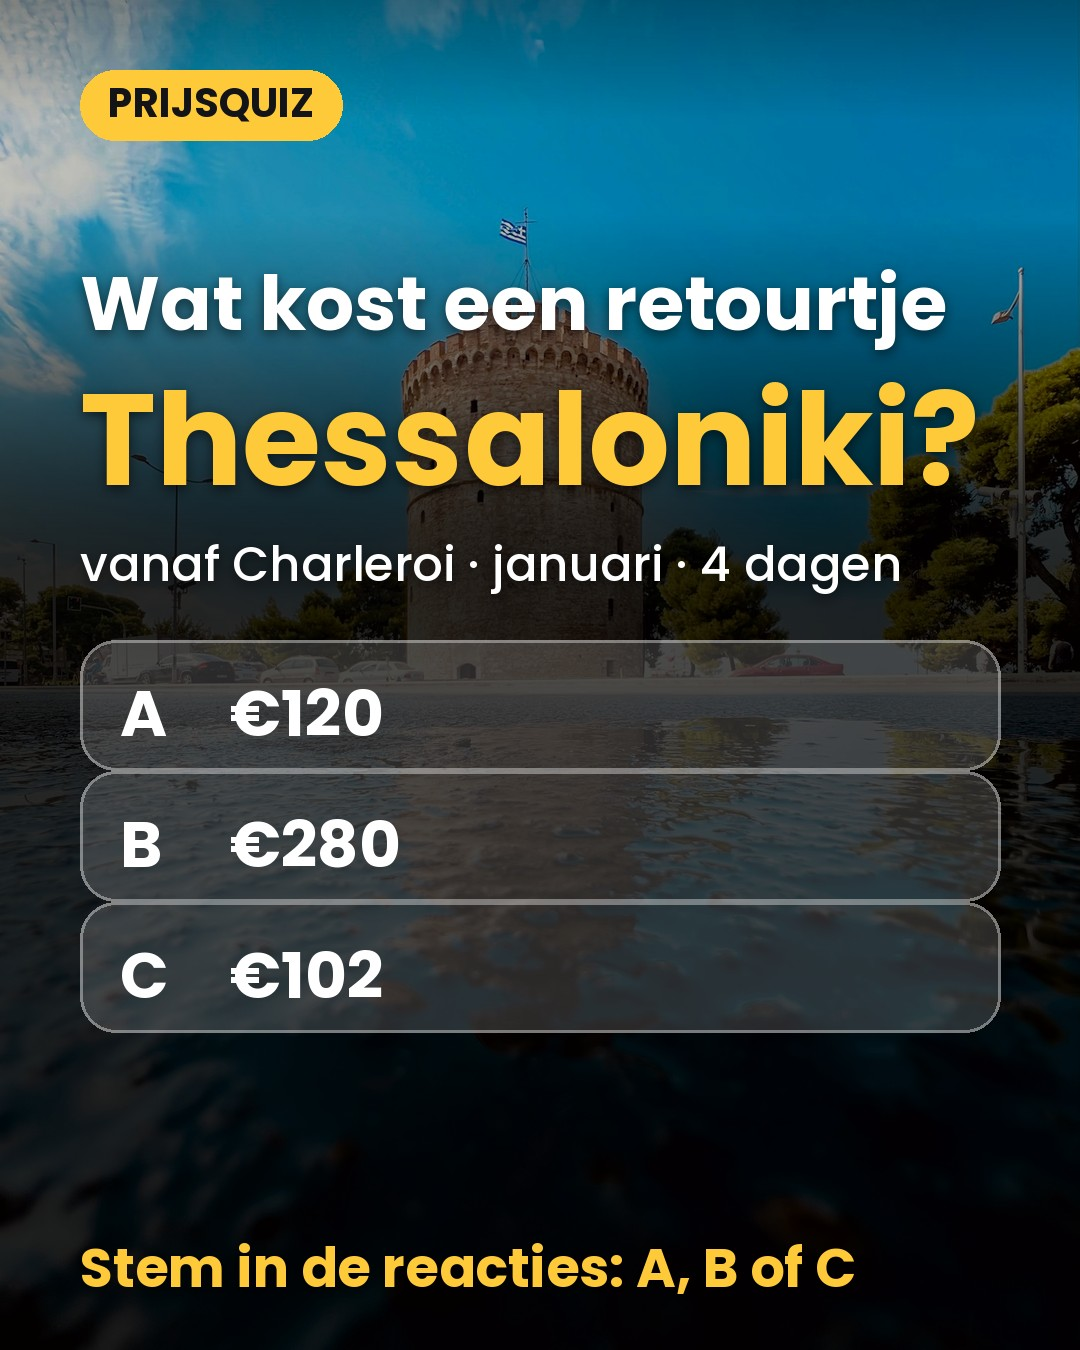
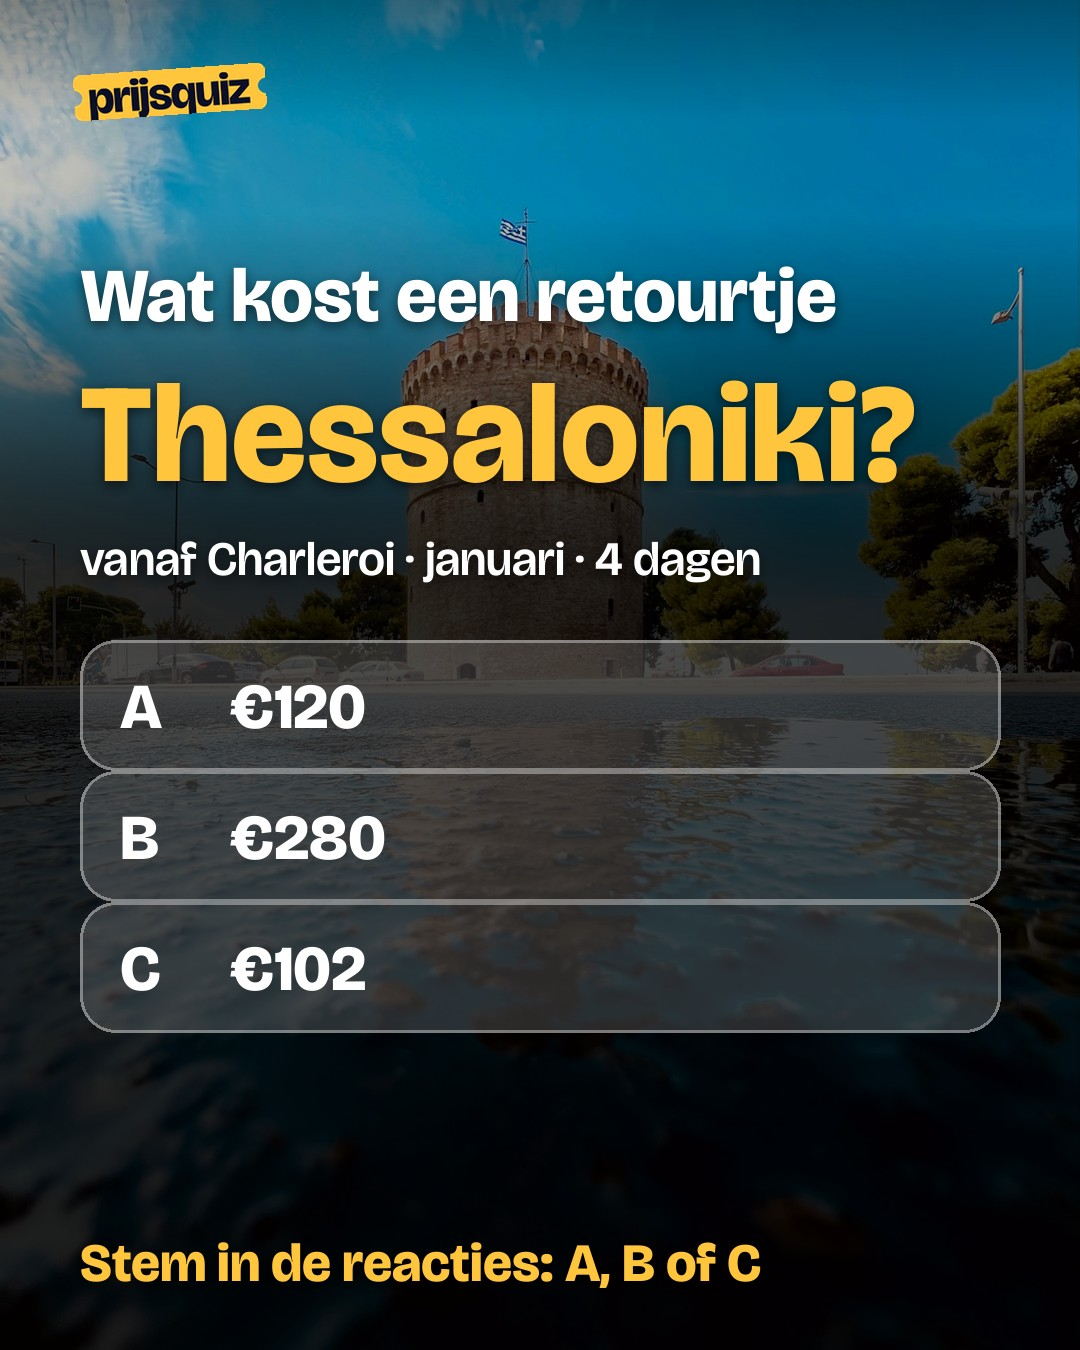
Proefgalerij nieuw ontwerp 2026-11-26

diff --git a/web/proef/index.html b/web/proef/index.html
@@ -5,13 +5,15 @@ Normaal €278, nu 63% goedkoper.
 
 Zoek je datum op vluchtdeals.com (link in bio). Prijzen kunnen snel veranderen.
 
-Foto&#x27;s: Neer Naor (Unsplash), Natali Quijano (Unsplash), Pixabay
+Ben jij al eens in Thessaloniki geweest?
+
+Foto&#x27;s: Neer Naor (Unsplash), Valeriia Miller (Unsplash), Pixabay
 
 #thessaloniki #vluchtdeals #goedkoopvliegen #reisdeals</pre><h2>2. Prijsquiz Thessaloniki (Instagram 4:5)</h2><div class='row'><figure><img src='img/2_1.jpg' loading='lazy'><figcaption>2.1</figcaption></figure><figure><img src='img/2_2.jpg' loading='lazy'><figcaption>2.2</figcaption></figure><figure><img src='img/2_3.jpg' loading='lazy'><figcaption>2.3</figcaption></figure></div><pre>Bijschrift 2:
 Prijsquiz 🇬🇷 Wat kost een retourtje Thessaloniki in januari, vanaf Charleroi?
 Stem in de reacties: A, B of C. Het antwoord staat op de laatste slide.
 
-Foto&#x27;s: Neer Naor (Unsplash), Natali Quijano (Unsplash), Pixabay
+Foto&#x27;s: Neer Naor (Unsplash), Valeriia Miller (Unsplash), Pixabay
 
 #thessaloniki #prijsquiz #vluchtdeals #goedkoopvliegen</pre><h2>3. Dealcarrousel Thessaloniki (TikTok 9:16)</h2><div class='row'><figure><img src='img/3_1.jpg' loading='lazy'><figcaption>3.1</figcaption></figure><figure><img src='img/3_2.jpg' loading='lazy'><figcaption>3.2</figcaption></figure><figure><img src='img/3_3.jpg' loading='lazy'><figcaption>3.3</figcaption></figure><figure><img src='img/3_4.jpg' loading='lazy'><figcaption>3.4</figcaption></figure><figure><img src='img/3_5.jpg' loading='lazy'><figcaption>3.5</figcaption></figure></div><h2>4. Dealcarrousel Kutaisi (Instagram 4:5)</h2><div class='row'><figure><img src='img/4_1.jpg' loading='lazy'><figcaption>4.1</figcaption></figure><figure><img src='img/4_2.jpg' loading='lazy'><figcaption>4.2</figcaption></figure><figure><img src='img/4_3.jpg' loading='lazy'><figcaption>4.3</figcaption></figure><figure><img src='img/4_4.jpg' loading='lazy'><figcaption>4.4</figcaption></figure></div><pre>Bijschrift 4:
 Zin in Kutaisi? Nu €212 retour vanaf Amsterdam 🇬🇪
@@ -20,13 +22,15 @@ Normaal €457, nu 54% goedkoper.
 
 Zoek je datum op vluchtdeals.com (link in bio). Prijzen kunnen snel veranderen.
 
-Foto&#x27;s: Mantas Sinkevičius (Unsplash), Kornél Máhl (Unsplash)
+Met wie zou jij gaan? Tag diegene hieronder.
+
+Foto&#x27;s: Mantas Sinkevičius (Unsplash), Benoît Deschasaux (Unsplash)
 
 #kutaisi #vluchtdeals #goedkoopvliegen #reisdeals</pre><h2>5. Prijsquiz Kutaisi (Instagram 4:5)</h2><div class='row'><figure><img src='img/5_1.jpg' loading='lazy'><figcaption>5.1</figcaption></figure><figure><img src='img/5_2.jpg' loading='lazy'><figcaption>5.2</figcaption></figure><figure><img src='img/5_3.jpg' loading='lazy'><figcaption>5.3</figcaption></figure></div><pre>Bijschrift 5:
 Prijsquiz 🇬🇪 Wat kost een retourtje Kutaisi in februari, vanaf Amsterdam?
 Stem in de reacties: A, B of C. Het antwoord staat op de laatste slide.
 
-Foto&#x27;s: Mantas Sinkevičius (Unsplash), Kornél Máhl (Unsplash)
+Foto&#x27;s: Mantas Sinkevičius (Unsplash), Benoît Deschasaux (Unsplash)
 
 #kutaisi #prijsquiz #vluchtdeals #goedkoopvliegen</pre><h2>6. Dealcarrousel Dublin (Instagram 4:5)</h2><div class='row'><figure><img src='img/6_1.jpg' loading='lazy'><figcaption>6.1</figcaption></figure><figure><img src='img/6_2.jpg' loading='lazy'><figcaption>6.2</figcaption></figure><figure><img src='img/6_3.jpg' loading='lazy'><figcaption>6.3</figcaption></figure><figure><img src='img/6_4.jpg' loading='lazy'><figcaption>6.4</figcaption></figure><figure><img src='img/6_5.jpg' loading='lazy'><figcaption>6.5</figcaption></figure></div><pre>Bijschrift 6:
 Wie gaat er mee naar Dublin? €58 retour vanaf Düsseldorf 🇮🇪
@@ -35,12 +39,14 @@ Normaal €147, nu 61% goedkoper.
 
 Zoek je datum op vluchtdeals.com (link in bio). Prijzen kunnen snel veranderen.
 
-Foto&#x27;s: Jordan Harrison (Unsplash), Kornél Máhl (Unsplash), Various (Wikimedia Commons, Public domain), Paul Krüger (Unsplash), Metro Centric (Wikimedia Commons, CC BY 2.0)
+Stuur dit naar je reismaatje.
+
+Foto&#x27;s: Jordan Harrison (Unsplash), Tolu Olarewaju (Unsplash), Chemistry&amp;art (Wikimedia Commons, CC0), Metro Centric (Wikimedia Commons, CC BY 2.0)
 
 #dublin #vluchtdeals #goedkoopvliegen #reisdeals</pre><h2>7. Prijsquiz Dublin (Instagram 4:5)</h2><div class='row'><figure><img src='img/7_1.jpg' loading='lazy'><figcaption>7.1</figcaption></figure><figure><img src='img/7_2.jpg' loading='lazy'><figcaption>7.2</figcaption></figure><figure><img src='img/7_3.jpg' loading='lazy'><figcaption>7.3</figcaption></figure></div><pre>Bijschrift 7:
 Prijsquiz 🇮🇪 Wat kost een retourtje Dublin in april, vanaf Düsseldorf?
 Stem in de reacties: A, B of C. Het antwoord staat op de laatste slide.
 
-Foto&#x27;s: Jordan Harrison (Unsplash), Kornél Máhl (Unsplash), Various (Wikimedia Commons, Public domain), Paul Krüger (Unsplash), Metro Centric (Wikimedia Commons, CC BY 2.0)
+Foto&#x27;s: Jordan Harrison (Unsplash), Tolu Olarewaju (Unsplash), Chemistry&amp;art (Wikimedia Commons, CC0), Metro Centric (Wikimedia Commons, CC BY 2.0)
 
 #dublin #prijsquiz #vluchtdeals #goedkoopvliegen</pre></main></body></html>
